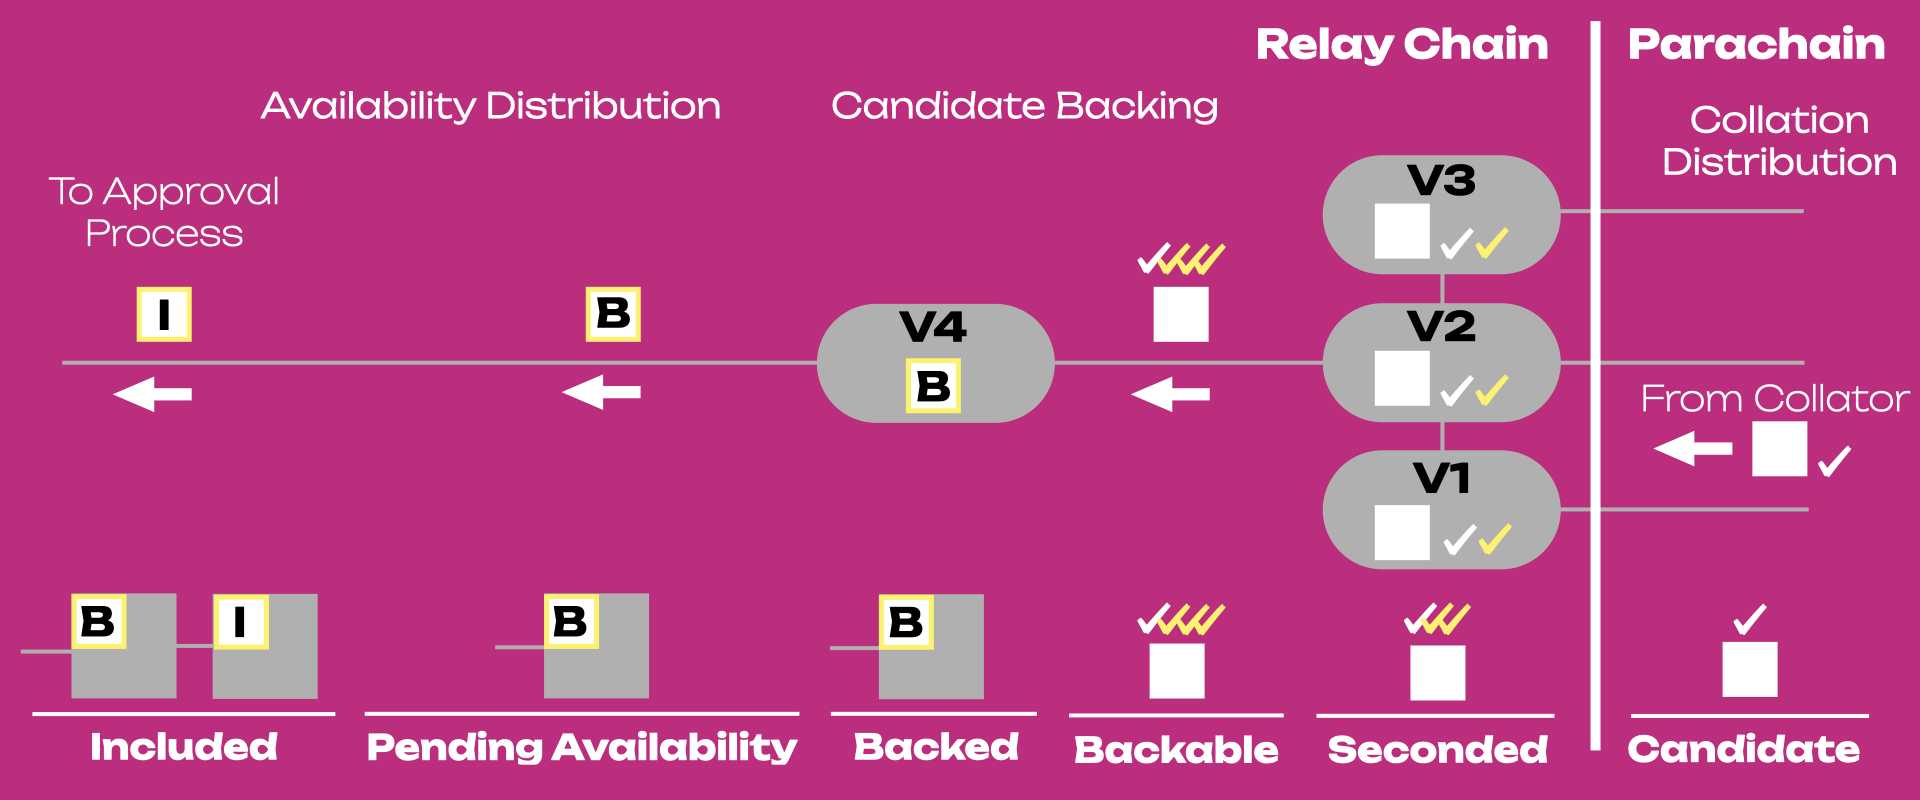
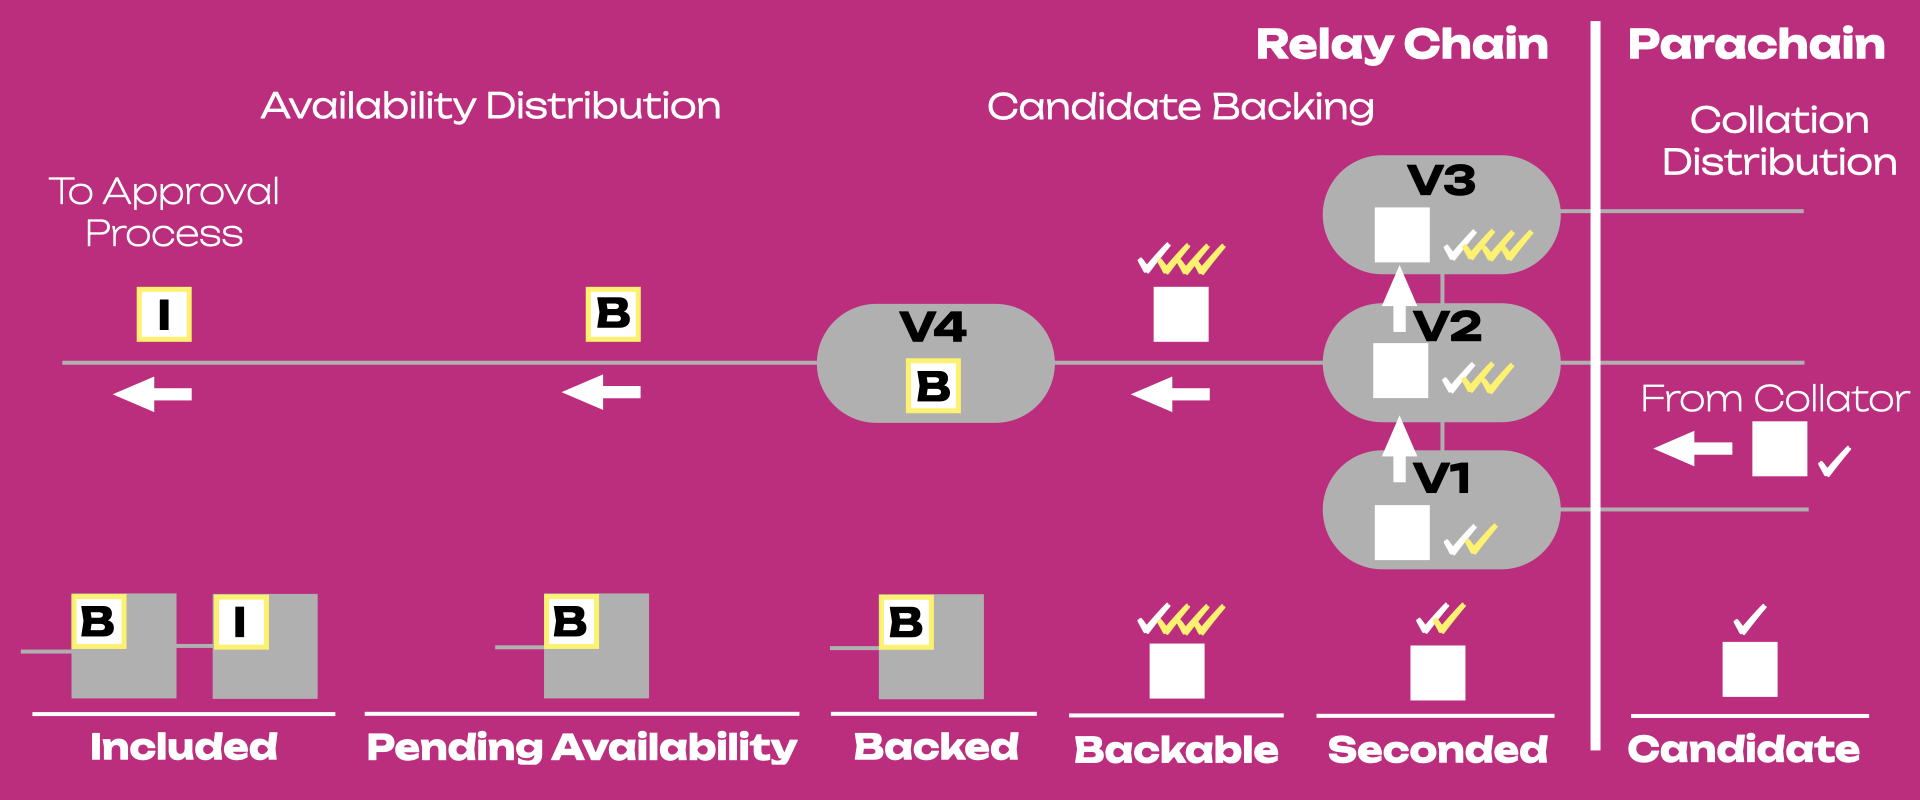
added Bader's feedback

diff --git a/docs/learn/learn-parachains-protocol.md b/docs/learn/learn-parachains-protocol.md
@@ -123,8 +123,8 @@ changes its status through this path as follows:
   the collator). Note the candidate is not valid yet and can still fail to be included in the Relay
   Chain.
 - Seconded: The block is put forward by the para-validator V1 to other para-validators (in this case
-  V2 and V3). The seconded block is shown as a white square with a white tick mark and two yellow
-  tick marks on top of it. The yellow marks show the PoV from the para-validators.
+  V2 and V3). The seconded block is shown as a white square with a white tick mark and a yellow tick
+  mark on top of it. The yellow mark show the PoV from para-validator V1.
 - Backable: The block validity is attested by a majority of the para-validators. The backable block
   is shown as white square with a white tick mark and three yellow tick marks on top of it. The
   yellow marks show the PoV from the para-validators, while the white mark the PoV from the
